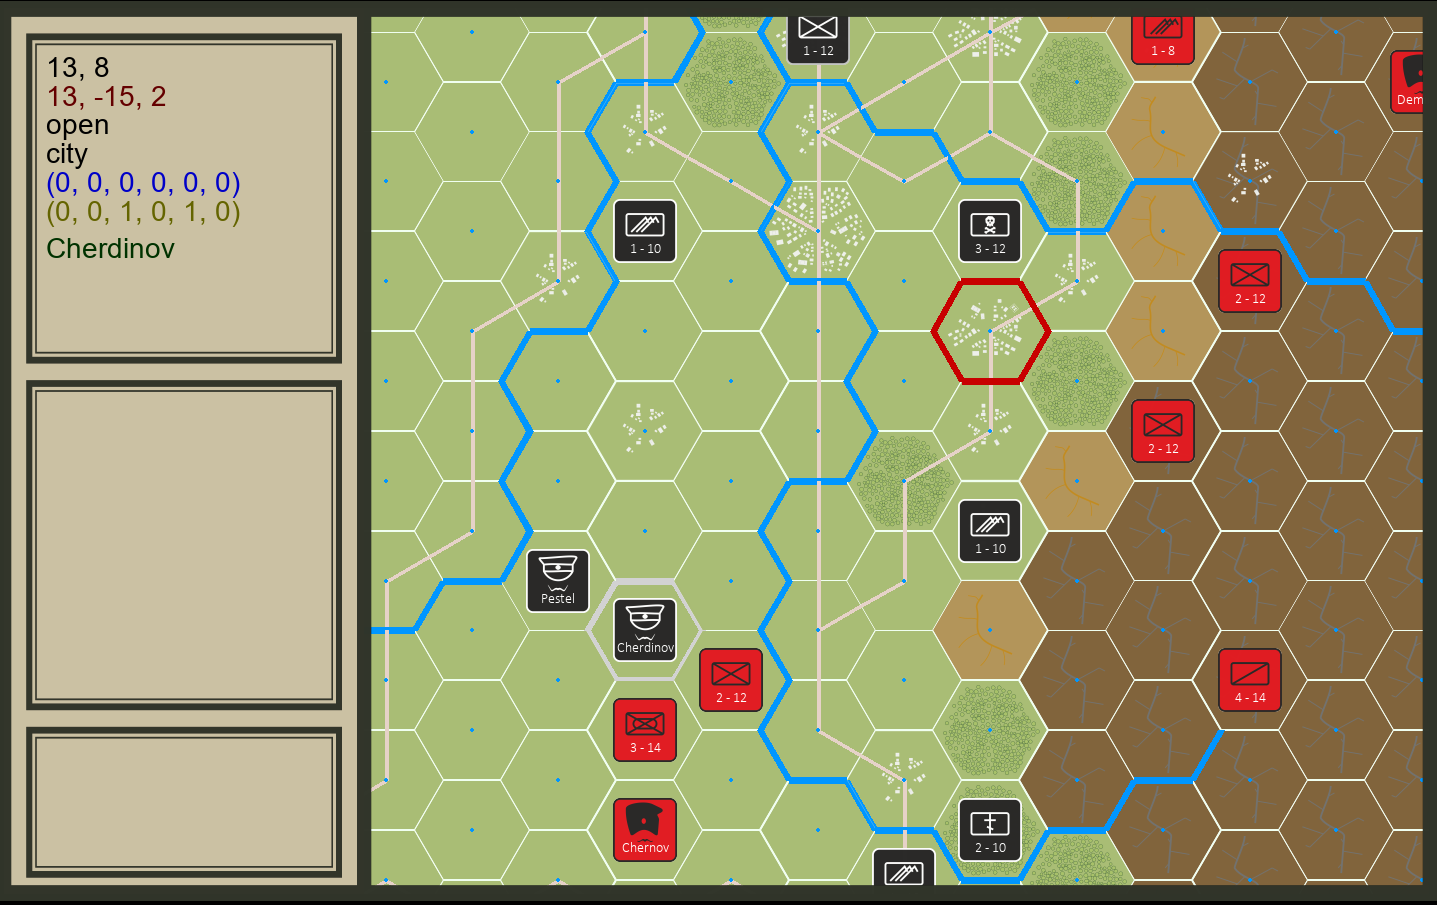
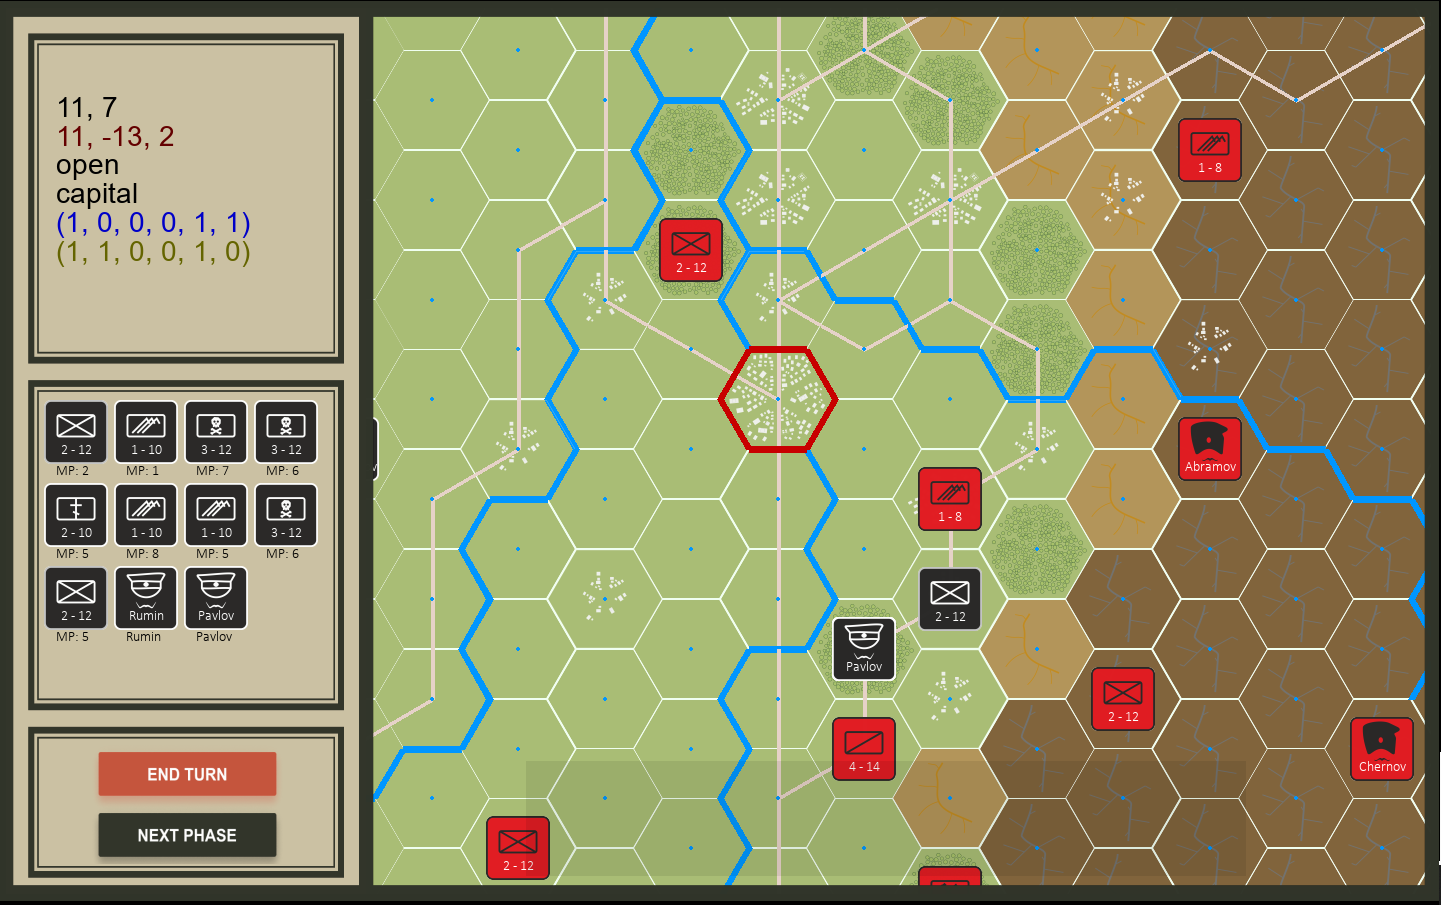
add units stac in info screen

diff --git a/unit.py b/unit.py
@@ -24,13 +24,17 @@ class Unit:
 		self.parameters_position = self.parameters_text.get_rect(center=global_vars.UNIT_PARAM_OFF)
 		self.surface.blit(self.parameters_text, self.parameters_position)
 
-	def write_unit_info(self, surface):
+	def write_unit_info(self, surface, x_offset, y_offset):
 		if self.name is None:
-			info_text = global_vars.font.render(
-				''.join('MP: ' + str(self.current_movement_points)), 1, global_vars.DARK_GREEN)
+			info_text = global_vars.unit_font.render(
+				''.join('MP: ' + str(self.current_movement_points)), 1, global_vars.BLACK)
 		else:
-			info_text = global_vars.font.render(self.name, 1, global_vars.DARK_GREEN)
-		info_position = info_text.get_rect(topleft=(global_vars.TEXT_OFFSET, int(global_vars.RATIO) * 16))
+			info_text = global_vars.unit_font.render(self.name, 1, global_vars.BLACK)
+		info_position = info_text.get_rect(
+			topleft=(global_vars.TEXT_OFFSET + x_offset, int(global_vars.UNIT_HEIGHT * 1.1) + y_offset))
+		unit_image_position = self.surface.get_rect(
+			topleft=(int(global_vars.RATIO * 0.2) + x_offset, int(global_vars.UNIT_HEIGHT * 0.1) + y_offset))
+		surface.blit(self.surface, unit_image_position)
 		surface.blit(info_text, info_position)
 
 	def is_possible_to_move(self, hexagon):

diff --git a/game.py b/game.py
@@ -25,9 +25,14 @@ class Game:
 			for event in pygame.event.get():
 				if event.type == pygame.QUIT or (event.type == pygame.KEYDOWN and event.key == pygame.K_ESCAPE):
 					self.quit_procedure()
+			y_offset, x_offset, n = 0, 0, 0
 			for unit in self.current_player.army:
-				if unit.is_selected:
-					unit.write_unit_info(self.interface.units_surface)
+				if self.selected_unit is not None and self.selected_unit.occupied_hex == unit.occupied_hex:
+					n += 1
+					unit.write_unit_info(self.interface.units_surface, x_offset, y_offset)
+					x_offset += int(global_vars.UNIT_WIDTH * 1.1)
+					y_offset += int(global_vars.UNIT_HEIGHT * 1.3) if n % 4 == 0 else 0
+					x_offset = 0 if n % 4 == 0 else x_offset
 			self.play_turn()
 			pygame.display.update()
 			self.clock.tick(global_vars.FPS)
@@ -39,6 +44,8 @@ class Game:
 	def interface_handler(self):
 		if self.interface.end_turn_button.is_pushed():
 			self.end_turn()
+		elif self.interface.next_phase_button.is_pushed():
+			pass
 
 	def key_handler(self):
 		keys = pygame.key.get_pressed()

diff --git a/global_vars.py b/global_vars.py
@@ -33,7 +33,7 @@ INFO_WIDTH = 25 * RATIO
 INFO_HEIGHT = 98.5 * H_RATIO
 INFO_SIZE = (int(INFO_WIDTH), int(INFO_HEIGHT))
 FONT_SIZE = int(RATIO * 2)
-TEXT_OFFSET = int(RATIO) * 3
+TEXT_OFFSET = int(RATIO) * 1
 MAP_WIDTH = 74 * RATIO
 MAP_HEIGHT = 98.5 * H_RATIO
 MAP_SIZE = (int(MAP_WIDTH), int(MAP_HEIGHT))

diff --git a/map.py b/map.py
@@ -85,7 +85,7 @@ class HexInfoBox:
 
 
 class Hex:
-	def __init__(self, col, row, edge, terrain, info_surface):
+	def __init__(self, col, row, edge, terrain, info):
 		self.axial = (col, row)
 		self.cube_coordinates = self.axial_to_cube_coordinates()
 		self.edge_len = edge
